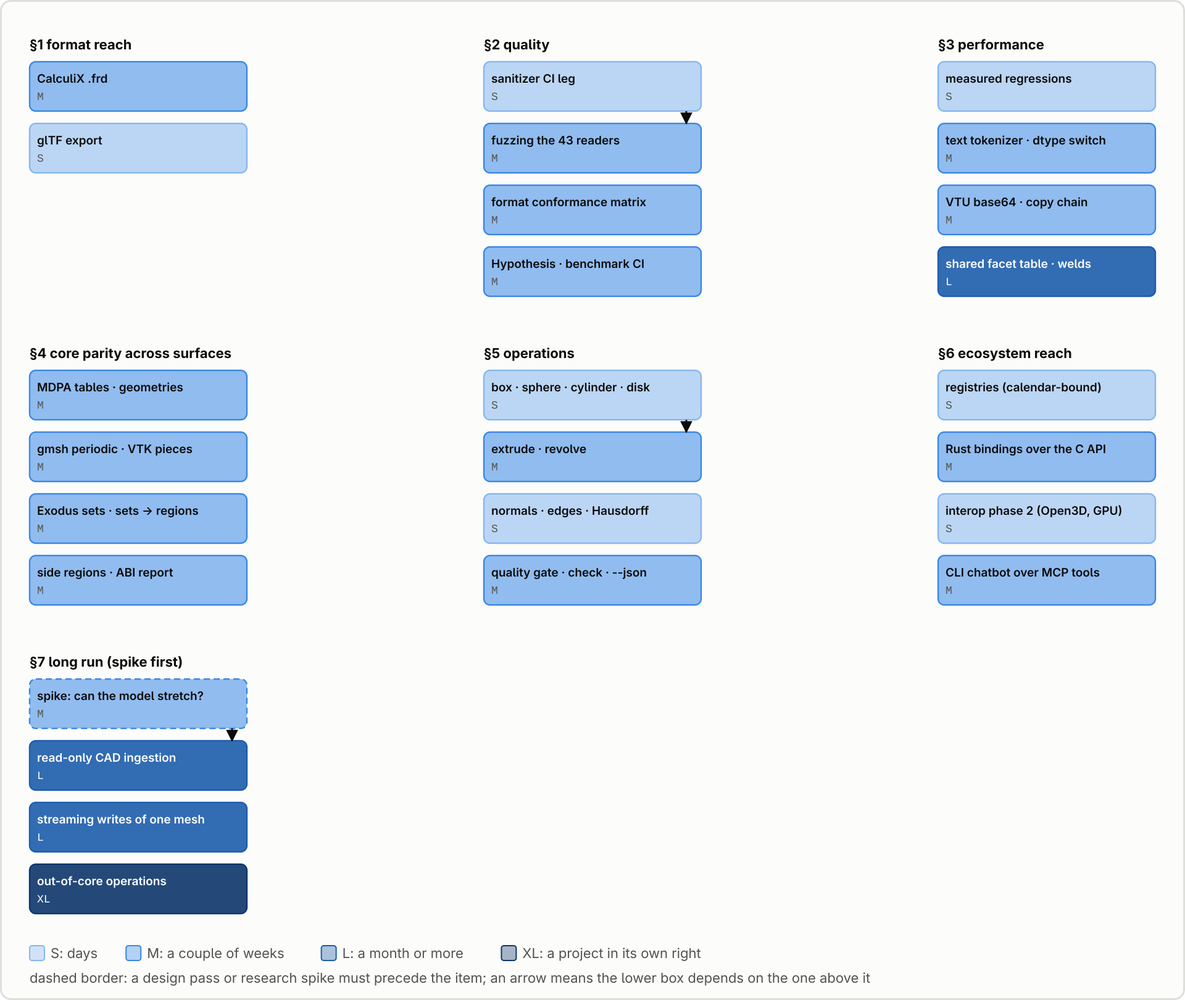
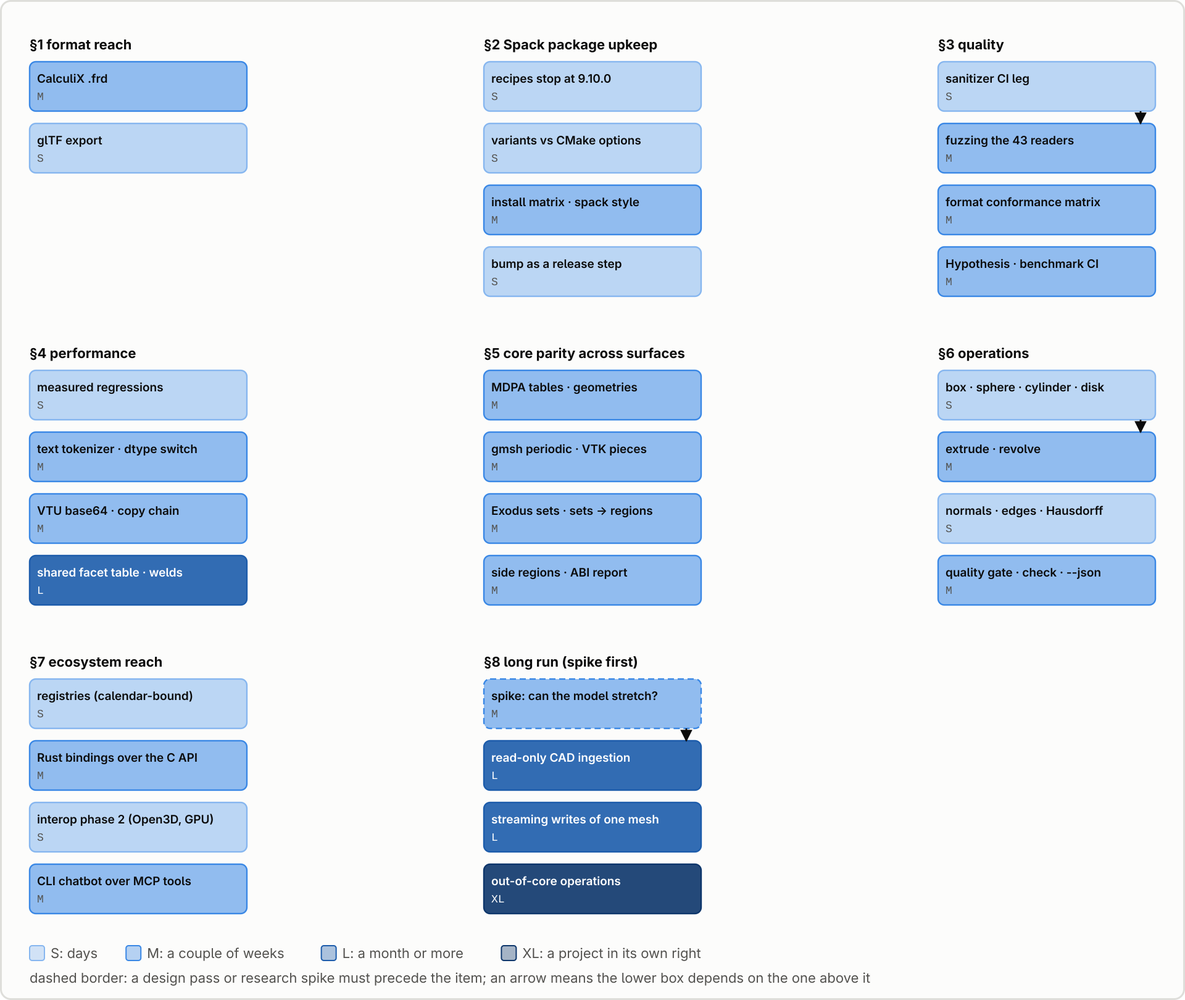
Refactor roadmap: Update sections on Spack package upkeep and quality of implementation
- Renamed "Quality of implementation" to "Spack package upkeep" and detailed the maintenance process for existing Spack packages.
- Added specific tasks for verifying versions, auditing recipes, and ensuring CI tests for Spack packages.
- Enhanced the "Quality of implementation" section with additional tasks related to sanitization, fuzzing, and format conformance.
- Updated subsequent sections to reflect the new numbering and adjusted references accordingly.

diff --git a/doc/diagrams/figures/flows.py b/doc/diagrams/figures/flows.py
@@ -946,7 +946,17 @@ def roadmap_map():
             [],
         ),
         (
-            "§2 quality",
+            "§2 Spack package upkeep",
+            [
+                ("recipes stop at 9.10.0", "S"),
+                ("variants vs CMake options", "S"),
+                ("install matrix · spack style", "M"),
+                ("bump as a release step", "S"),
+            ],
+            [],
+        ),
+        (
+            "§3 quality",
             [
                 ("sanitizer CI leg", "S"),
                 ("fuzzing the 43 readers", "M"),
@@ -956,7 +966,7 @@ def roadmap_map():
             [(0, 1)],
         ),
         (
-            "§3 performance",
+            "§4 performance",
             [
                 ("measured regressions", "S"),
                 ("text tokenizer · dtype switch", "M"),
@@ -966,7 +976,7 @@ def roadmap_map():
             [],
         ),
         (
-            "§4 core parity across surfaces",
+            "§5 core parity across surfaces",
             [
                 ("MDPA tables · geometries", "M"),
                 ("gmsh periodic · VTK pieces", "M"),
@@ -976,7 +986,7 @@ def roadmap_map():
             [],
         ),
         (
-            "§5 operations",
+            "§6 operations",
             [
                 ("box · sphere · cylinder · disk", "S"),
                 ("extrude · revolve", "M"),
@@ -986,7 +996,7 @@ def roadmap_map():
             [(0, 1)],
         ),
         (
-            "§6 ecosystem reach",
+            "§7 ecosystem reach",
             [
                 ("registries (calendar-bound)", "S"),
                 ("Rust bindings over the C API", "M"),
@@ -996,7 +1006,7 @@ def roadmap_map():
             [],
         ),
         (
-            "§7 long run (spike first)",
+            "§8 long run (spike first)",
             [
                 ("spike: can the model stretch?", "M"),
                 ("read-only CAD ingestion", "L"),

diff --git a/doc/roadmap.md b/doc/roadmap.md
@@ -338,23 +338,39 @@ Revisit any of them when a consumer asks with a file in hand — a real deck or 
 
 ---
 
-## 2. Quality of implementation
+## 2. Spack package upkeep
+
+*Admission: a package that already exists but lives in someone else's repository and has fallen behind the release. Not a feature, and ordered straight after format reach because it is how HPC users get meshio++ at all ([issue #3](https://github.com/loumalouomega/meshioplusplus/issues/3): "Interesting for HPC"; the maintainer's follow-up: done, but it has to be kept current with every release).*
+
+Both recipes are upstream in [`spack/spack-packages`](https://github.com/spack/spack-packages) — [`meshioplusplus`](https://github.com/spack/spack-packages/blob/develop/repos/spack_repo/builtin/packages/meshioplusplus/package.py) (a `CMakePackage`: C API, Fortran, installable C++ API, CLI) and [`py-meshioplusplus`](https://github.com/spack/spack-packages/blob/develop/repos/spack_repo/builtin/packages/py_meshioplusplus/package.py) (a `PythonPackage`), added in [PR #5624](https://github.com/spack/spack-packages/pull/5624). Nothing in this repository builds or tests them, so nothing notices when they drift.
+
+- **Verify first, then bump the versions.** Read on 2026-09-21, the newest tagged `version()` in both recipes is **9.10.0** (plus `master`) against **15.2.0** here, and the `meshioplusplus` recipe's `url` still points at the `v9.10.0` tarball. Probe: `spack versions meshioplusplus py-meshioplusplus` against `git tag`. Add a `version(..., sha256=...)` line per release worth keeping (`spack checksum` computes it); `spack install py-meshioplusplus@15.2.0` and `meshioplusplus@15.2.0` must then concretize and build. **S**
+- **Audit the recipes against six major versions of drift.** Every `when="@X:"` guard, the `depends_on` floors (`py-scikit-build-core@0.8:`, `py-pybind11@2.11:`, `python@3.8:`, `cmake@3.15:`) and the `conflicts("%gcc@:9")` must be re-checked against `pyproject.toml` and `CMakeLists.txt` at the new version, and the docstring's "~40 unstructured mesh formats" is now 52. The `+cxx_api` libraries install as `libmeshioplusplus_core_<backend>.so.<abi>` and `MESHIOPLUSPLUS_ABI_VERSION` is now 15, while the C library keeps `SOVERSION 0` ([ABI policy](./abi.md)) — confirm the recipe finds both, and that a `find_package(meshioplusplus X.Y.Z EXACT CONFIG)` consumer against a Spack-installed `+cxx_api` still resolves ([C++ API](./cpp_api.md)). **S**
+- **Variants that lag the CMake options.** The recipes expose `hdf5`, `netcdf`, `zlib`, `zstd`, `lz4`, `kahip`, `fortran`, `cli`, `parallel`, `mesh_backend`, `cxx_api` and `cxx_api_backends`. `CMakeLists.txt` also defines `MESHIOPLUSPLUS_WITH_CGNSLIB`, `MESHIOPLUSPLUS_WITH_GIDPOST`, `MESHIOPLUSPLUS_WITH_POLYSCOPE`, `MESHIOPLUSPLUS_WITH_EIGEN` and `MESHIOPLUSPLUS_WITH_JSON`. Verify which of them post-date 9.10.0 and which have a Spack package to depend on (`cgns` does); expose the ones an HPC build would choose, leave the rest at their defaults, and keep every variant named as the Conan option and vcpkg feature are ([C API](./c_api.md#package-managers-conan-vcpkg-spack)). **S–M**
+- **Test the matrix, not one install.** Build both recipes with `spack install --test=root` for the default variants, `+fortran`, `+cxx_api` (each `cxx_api_backends`), `parallel=openmp|tbb|kokkos` and `mesh_backend=kratos`, and run `spack style` and `spack audit` before opening the PR. None of this is in CI here today; a smoke job that installs from a `spack-packages` checkout on a schedule would catch the next drift without a person remembering to look. **S–M**
+- **Make the bump a release step.** [Installation → Spack](./installation.md#spack) and the C API page both say a new release "needs no action here" because a `version(...)` line is added upstream after each tag; the drift above is what that sentence produces when it is nobody's job. Add the upstream PR to the release checklist in `AGENTS.md` (after the tag: `spack checksum`, one `version()` line per recipe, `spack style`) and replace the sentence in both docs. Opening the PR from the release workflow needs a token on a fork and is a follow-up only if the manual step is skipped again. **S**
+- **Done when.** Both recipes list the current release, `spack install py-meshioplusplus@<current> +hdf5 +netcdf +zlib` and `spack install meshioplusplus@<current> +fortran +cxx_api` succeed on a clean Spack, the docs no longer claim the step is automatic, and issue #3 is closed.
+- **References.** [Spack packaging guide](https://spack.readthedocs.io/en/latest/packaging_guide_creation.html) † · [`spack checksum`](https://spack.readthedocs.io/en/latest/command_index.html#spack-checksum) † · [PR #5624, the original submission](https://github.com/spack/spack-packages/pull/5624) · [Installation → Spack](./installation.md#spack)
+
+---
+
+## 3. Quality of implementation
 
 *Admission: work that makes every other item safer to land. None of it is a feature, so none of it competes for the same attention — it can run in parallel with everything.*
 
 - **A sanitizer CI leg** — ASan and UBSan over the existing `cpp-tests` job. No workflow passes `-fsanitize` today, and a fuzzer that finds a crash without one reports a symptom rather than the out-of-range read behind it. The precondition for the next item. **S**
 - **Fuzzing the readers** (libFuzzer, then OSS-Fuzz if the project is accepted). 43 mostly hand-rolled parsers are reachable from a C ABI, a browser, a VS Code extension and an MCP server — untrusted input reaches them by design. One fuzz target per `registry_readers()` entry, seeded from `tests/python/meshes/`. The highest-value non-feature item in this document. **M**
-- **A format conformance matrix** — one canonical mesh written to and read back from every writable format, asserting per format what survives (points, each cell type, point/cell/field data and their dtypes, each region kind) against a declared expectation. `tests/python/test_region_roundtrip.py` already does this for regions over Gmsh/Abaqus/MED, and `tests/cpp/test_sequence.cpp`'s `WriteSupportsTimeAgreesWithReality` is the registry-iterating shape to generalise it to. The declared expectations become a lossiness column in the [format table](./formats.md), which today has only Read/Write/dependencies, with lossiness scattered across its notes and fifty-five per-format quirks sections. The canonical mesh should be a primitive constructor from [§5](#_5-operations). **M**
+- **A format conformance matrix** — one canonical mesh written to and read back from every writable format, asserting per format what survives (points, each cell type, point/cell/field data and their dtypes, each region kind) against a declared expectation. `tests/python/test_region_roundtrip.py` already does this for regions over Gmsh/Abaqus/MED, and `tests/cpp/test_sequence.cpp`'s `WriteSupportsTimeAgreesWithReality` is the registry-iterating shape to generalise it to. The declared expectations become a lossiness column in the [format table](./formats.md), which today has only Read/Write/dependencies, with lossiness scattered across its notes and fifty-five per-format quirks sections. The canonical mesh should be a primitive constructor from [§6](#_6-operations). **M**
 - **Property-based testing** (Hypothesis) over the invariants the docs already articulate: partition-of-unity, volume conservation, conformity, byte-identical determinism, map composition. **M**
-- **A benchmark harness that covers what ships, with a CI leg.** The suite exists (`benchmark/`, up to ~1M synthetic tets in Python, 257k in the C++ backend benchmark, which is off by default) but no CI job runs any of it, so a performance regression is found by a user. It is also narrow: `benchmark/bench.py` times 6 format labels of the 43 the core reads, and [benchmarks](./benchmarks.md) has no numbers for any operation or for the parallel backends — `src/cpp/benchmark/bench_backends.cpp` compares mesh backends only. Widen `bench.py` to every registry format; add a `bench_ops.cpp` (`extract_surface`, `smooth`, `refine`, `merge`, `clean`, `compute_sdf`, `decimate`, `partition`, `reorder`) over a size sweep and SEQ/OpenMP/TBB/Kokkos; add a 10M+ cell tier; run it on a schedule that records rather than gates. Every [§3](#_3-performance) item is gated on this showing its before/after, and it decides whether the scale items in [§7](#_7-long-run-spike-first) matter at all. **S–M**
+- **A benchmark harness that covers what ships, with a CI leg.** The suite exists (`benchmark/`, up to ~1M synthetic tets in Python, 257k in the C++ backend benchmark, which is off by default) but no CI job runs any of it, so a performance regression is found by a user. It is also narrow: `benchmark/bench.py` times 6 format labels of the 43 the core reads, and [benchmarks](./benchmarks.md) has no numbers for any operation or for the parallel backends — `src/cpp/benchmark/bench_backends.cpp` compares mesh backends only. Widen `bench.py` to every registry format; add a `bench_ops.cpp` (`extract_surface`, `smooth`, `refine`, `merge`, `clean`, `compute_sdf`, `decimate`, `partition`, `reorder`) over a size sweep and SEQ/OpenMP/TBB/Kokkos; add a 10M+ cell tier; run it on a schedule that records rather than gates. Every [§4](#_4-performance) item is gated on this showing its before/after, and it decides whether the scale items in [§8](#_8-long-run-spike-first) matter at all. **S–M**
 - **Test and install the ParaView plugin.** `tools/paraview-meshioplusplus-plugin.py` ships as a reader and writer, but nothing tests it, and the `data_files` entry that would install it is commented out in `pyproject.toml`, so [its page](./paraview_plugin.md) describes a plugin path nothing writes. A `pvpython` smoke step plus the install fix. **S**
 - **Finish the fallback narrowing.** The per-format shims route every decline through `core_declined` (`_fallback.py`), but two halves of the same defect remain. First, **44 broad `except Exception` handlers in 36 package-root operation files** (`_clean.py`, `_data_average.py`, `_curvature.py`, …) still wrap the C++ core and, unlike a format fallback, silently substitute a *different algorithm*; each operation needs its own ruling on which exceptions mean "unsupported" and which mean "bad input", with `_error.py`'s `(ValueError, TypeError)` re-raise as the model. Second, the C++ core has one `ReadError` for both "malformed file" and "construct I deliberately decline", and about a hundred `std::stoi`/`stoll`/`.at()` call sites in the format readers leak `ValueError`/`IndexError` instead (`tests/python/meshes/tecplot/quad_zone_space.tec` makes the C++ Tecplot reader throw `std::stoull`, and now logs a warning before the Python twin reads it); a `ReadError` subclass, or a per-entry-point wrapper in `_core.cpp` (not the global translator, which would remap the operations' `std::invalid_argument`), makes the "recognised decline" contract total. Running the suite once under `MESHIOPLUSPLUS_STRICT_CORE=1` sizes both. **M**
 
 ---
 
-## 3. Performance
+## 4. Performance
 
-*Admission: a measured or code-verified slowdown in a path a user hits, with the shape of the fix named. Nothing here is scheduled before the [§2](#_2-quality-of-implementation) harness can show its before/after.*
+*Admission: a measured or code-verified slowdown in a path a user hits, with the shape of the fix named. Nothing here is scheduled before the [§3](#_3-quality-of-implementation) harness can show its before/after.*
 
 Two findings frame the section. First, **the serial phases below are deliberate**: each is documented in the code as a determinism pin, not an oversight — output is byte-identical across parallel backends and thread counts, and the reference-file tests enforce it — so every fix must keep that guarantee and prove it with a SEQ-versus-OpenMP diff, not assert it. Second, **every parallel item is conditional on the backend**: a SEQ build (and the `stl` fallback without TBB) runs `parallel_for` sequentially, so each change must also show that SEQ does not get slower — a parallel sort is O(n log n) where the hash map it replaces is O(n).
 
@@ -392,7 +408,7 @@ Two findings frame the section. First, **the serial phases below are deliberate*
 
 - **The Python bindings never release the GIL.** Nothing in `bindings/python` uses `gil_scoped_release` or a `call_guard`, so a multi-gigabyte read or a 10M-cell operation blocks every other Python thread, and no caller can convert files in a thread pool. Release after the numpy→`Mesh` conversion and re-acquire before the `Mesh`→numpy one, once the `b64decode` table race above is fixed, auditing that no released region touches a Python object. **S–M**
 - **`import meshioplusplus` takes ~180–210 ms, ~160–190 ms of it the CLI.** The package `__init__` imports `_cli`, which imports every verb module, and `_common.py` imports `rich` for library use; every MCP process and CLI call pays it. Load `_cli` lazily through a module `__getattr__` and move `rich` into the CLI. The heavy optional dependencies (`h5py`, `netCDF4`, `torch`, `pxr`, `vtk`) are already imported inside functions. **S**
-- **A declined C++ read costs a full parse before the Python one starts.** `vtu_read.cpp` builds the whole XML DOM, base64 bodies included, before rejecting lzma, appended data or multiple pieces; `gmsh.cpp` rejects `$Periodic` only after `$Nodes` and `$Elements` are parsed; with an ambiguous extension one `.msh` can be parsed up to six times. A cheap pre-flight — attribute and section-header scans — before the expensive parse, with only early rejections falling back. Every decline is now logged at DEBUG (and raises under `MESHIOPLUSPLUS_STRICT_CORE=1`), which is what shows how often it happens; the durable fix is [§4](#_4-core-parity-across-surfaces)'s core parity. **S–M**
+- **A declined C++ read costs a full parse before the Python one starts.** `vtu_read.cpp` builds the whole XML DOM, base64 bodies included, before rejecting lzma, appended data or multiple pieces; `gmsh.cpp` rejects `$Periodic` only after `$Nodes` and `$Elements` are parsed; with an ambiguous extension one `.msh` can be parsed up to six times. A cheap pre-flight — attribute and section-header scans — before the expensive parse, with only early rejections falling back. Every decline is now logged at DEBUG (and raises under `MESHIOPLUSPLUS_STRICT_CORE=1`), which is what shows how often it happens; the durable fix is [§5](#_5-core-parity-across-surfaces)'s core parity. **S–M**
 - **The MCP server re-reads the input file on every tool call** — 65 call sites in `mcp/_tools.py` go through an uncached `_load()`, so an agent's info → clean → decimate → convert parses one file four times. A bounded cache keyed on (path, `mtime_ns`, size); anything weaker manufactures a stale-read bug. **S**
 - **pybind11 per-call overheads**, together: the `Mesh`→numpy conversion re-imports the `Mesh` class on every call, the contiguity check does a Python attribute lookup per array, operations clone connectivity they never change (`transform`), and polygon/polyhedron blocks cross the boundary one node id and one face at a time where the WASM binding already uses a CSR triple. **S–M**
 - **Flat-binding accessor copies**, together: R copies the points twice and shifts connectivity to 1-based with a scalar loop, and Julia's safe accessors `copy` the borrowed view; both are documented, and both are fixable behind the same accessor names. **S**
@@ -403,18 +419,18 @@ Two findings frame the section. First, **the serial phases below are deliberate*
 - **Explicit SIMD intrinsics or `-march` flags** — portability across wheels, WASM and the release binaries is worth more than the scalar kernels cost; revisit only if the harness shows a kernel dominating.
 - **Kokkos device execution** — every `parallel_for` body captures host pointers (`parallel.hpp`); the GPU route is the DLPack/CuPy handoff ([GPU handoff](./gpu.md)).
 - **A BVH in place of the uniform grid** — the tiebreak argument above.
-- **Tuning the pure-Python fallback readers** — the fix is making the C++ path accept the file ([§4](#_4-core-parity-across-surfaces)), not a faster fallback; `_decimate.py`'s heap-based twin is deleted once `decimate` accepts its inputs, not optimised.
+- **Tuning the pure-Python fallback readers** — the fix is making the C++ path accept the file ([§5](#_5-core-parity-across-surfaces)), not a faster fallback; `_decimate.py`'s heap-based twin is deleted once `decimate` accepts its inputs, not optimised.
 
 *Recommended posture:* the harness and the measured regressions first; then the small isolated wins — `b64decode`, the lazy CLI import, `optimize_volume` — then the shared facet table, the largest total win; the boundary items as their consumers ask.
 
 ---
 
-## 4. Core parity across surfaces
+## 5. Core parity across surfaces
 
 *Admission: something the Python layer can do that the C++ core cannot, or that the core can do and a binding cannot reach.* A construct that forces the Python fallback is not "slower from C" — it is **unreadable** from C, Fortran, Julia, R, WASM and the native CLI, none of which has a fallback. Ordered by this project's own consumers, Kratos first.
 
 - **MDPA beyond mesh-level blocks.** The C++ core reads and writes `Nodes`/`Elements`/`Conditions`/`SubModelPart`s, but `Begin Table`, `Begin Geometries`, `Begin Mesh <id>`, `Begin Constraints` and non-numeric `ModelPartData` throw — or, under a lenient read, are skipped and listed in `MdpaInfo`, which no flat binding exposes ([MDPA](./formats/mdpa.md#c-core)). **M**
-- **Gmsh `$Periodic` and format 4.0 in the C++ core.** `$Periodic`, both directions: a periodic 4.1 file is unreadable from every flat binding today ([Gmsh](./formats/gmsh.md)). The C++ reader also accepts only versions 2.2 and 4.1 (`gmsh.cpp`), so a 4.0 file, which the Python reader reads, is unreadable from them too. Pairs with periodic node matching in [§5](#_5-operations). **S–M**
+- **Gmsh `$Periodic` and format 4.0 in the C++ core.** `$Periodic`, both directions: a periodic 4.1 file is unreadable from every flat binding today ([Gmsh](./formats/gmsh.md)). The C++ reader also accepts only versions 2.2 and 4.1 (`gmsh.cpp`), so a 4.0 file, which the Python reader reads, is unreadable from them too. Pairs with periodic node matching in [§6](#_6-operations). **S–M**
 - **VTK-family constructs the C++ readers refuse**: multi-`<Piece>` `.vtu` (the Python reader merges pieces) and legacy `.vtk` structured points, structured grid and rectilinear grid ([VTU](./formats/vtu.md), [VTK](./formats/vtk.md)). **S–M**
 - **XDMF 2 and XPath references** — the C++ core implements XDMF 3 only, and `Reference="XML"` `DataItem`s not at all ([XDMF](./formats/xdmf.md)). **M**
 - **MED multi-mesh files and profiles**, which are Python-only and not reachable even under a lenient C++ read ([MED](./formats/med.md)). **M**
@@ -428,13 +444,13 @@ Two findings frame the section. First, **the serial phases below are deliberate*
 
 ---
 
-## 5. Operations
+## 6. Operations
 
 *Admission: a new operation, or a public face for machinery that already exists privately inside one.*
 
 **Generation.** Almost every operation transforms a mesh you already have. The exceptions all start from something else — `grid` from a lattice (`detail/grid_lattice.hpp`), `voxelize`/`compute_sdf` from a surface's bounding box, `remesh_volume` from a closed surface — and nothing builds a shape from parameters, sweeps one, or triangulates a domain.
 
-- **Primitive constructors** — `box`, `sphere`, `cylinder`, `disk`, in their own `operations/primitives.hpp` beside `grid`. Dependency-free, and it removes the fixture-file dependency from tests, docs, notebooks, the browser demo and the MCP server; it is also the canonical mesh the [§2](#_2-quality-of-implementation) conformance matrix needs. Highest leverage per line of code in this document. **S**
+- **Primitive constructors** — `box`, `sphere`, `cylinder`, `disk`, in their own `operations/primitives.hpp` beside `grid`. Dependency-free, and it removes the fixture-file dependency from tests, docs, notebooks, the browser demo and the MCP server; it is also the canonical mesh the [§3](#_3-quality-of-implementation) conformance matrix needs. Highest leverage per line of code in this document. **S**
 - **`extrude`** — 2-D → 3-D sweep (triangle → wedge, quad → hexahedron) with `nlayers` and per-layer offsets, carrying regions to side and cap regions. The most-requested generation primitive. **M**
 - **`revolve`** — `extrude`'s rotational sibling around an axis, sharing its layer machinery; degenerate cells on the axis are the only new work. **M**
 - **Delaunay / constrained 2-D meshing** — genuinely useful, but robust geometric predicates are where dependency-free stops paying. Better as an optional Triangle or Gmsh backend, off by default, following the KaHIP pattern. **L**
@@ -452,7 +468,7 @@ Two findings frame the section. First, **the serial phases below are deliberate*
 
 ---
 
-## 6. Ecosystem reach
+## 7. Ecosystem reach
 
 *Admission: getting what exists to the people who would use it.*
 
@@ -465,7 +481,7 @@ Two findings frame the section. First, **the serial phases below are deliberate*
 | Julia General | Not registered, so `Pkg.add("MeshioPlusPlus")` does not work yet ([Julia](./julia.md)). |
 | Blender Extensions Platform | Extension zips are built and attached to every release; only the listing remains ([Blender](./blender.md)). |
 | ConanCenter and the vcpkg registry | Recipes are self-hosted and CI-validated under `packages/`; neither is submitted ([C API](./c_api.md#package-managers-conan-vcpkg-spack)). |
-| ParaView | The plugin exists; installing it with the wheel is the [§2](#_2-quality-of-implementation) item. |
+| ParaView | The plugin exists; installing it with the wheel is the [§3](#_3-quality-of-implementation) item. |
 
 - **Rust bindings** over the C API — the next language by scientific adoption after Julia and R, and the ABI/`SOVERSION` work makes it cheap. **M**
 - **Interop phase 2** — the Open3D and DOLFINx bridges exist as named stubs that raise `NotImplementedError` ([interop](./interop.md)); the pinned-memory staging for CuPy is wired in C++ (v8.5.0) but not from Python ([GPU handoff](./gpu.md)). **S–M each**
@@ -477,11 +493,11 @@ Two findings frame the section. First, **the serial phases below are deliberate*
 
 ---
 
-## 7. Long run (spike first)
+## 8. Long run (spike first)
 
 *Admission: work whose shape is unknown until an investigation writes it down. Findings before code.*
 
-**Scale.** Memory-mapped reads ([mmap](./mmap.md), via `ReadOptions` and the C ABI but not Python's `read()`) roughly halve the peak footprint of a large read, and the XDMF series appender and Python's chunked `write_dataset` write a series or a dataset without holding it — but nothing writes one mesh larger than memory, and no operation streams. Run the [§2](#_2-quality-of-implementation) benchmark tier first; it decides whether either item below matters.
+**Scale.** Memory-mapped reads ([mmap](./mmap.md), via `ReadOptions` and the C ABI but not Python's `read()`) roughly halve the peak footprint of a large read, and the XDMF series appender and Python's chunked `write_dataset` write a series or a dataset without holding it — but nothing writes one mesh larger than memory, and no operation streams. Run the [§3](#_3-quality-of-implementation) benchmark tier first; it decides whether either item below matters.
 
 - **Streaming / chunked writes of one mesh**, the counterpart to selective and memory-mapped reads. **L**
 - **Out-of-core operations** for the ops that are already block-local. **XL**
@@ -504,7 +520,7 @@ Recorded so they are not re-proposed as gaps.
 
 - **MPI in the library** — none planned ([C++ API](./cpp_api.md)); `partition`'s ghost layers produce the halo an MPI assembly in the owning application needs.
 - **Solver-coupled physics-ML** — assembled solver residuals, adjoints and Sobolev training, co-simulation, active-learning *labeling*, adaptive remeshing driven by a surrogate, and MPI model-part gathering. Every one needs a live solver (an assembly routine, its tangent, its communicator) and meshio++ has no notion of a discrete system; they belong in the application that owns the solver, the division [Symbolic and physics](physicsnemo/symbolic_and_physics.md) describes.
-- **The Python-only layers stay Python** — `pmsh`, `zarr`, `cae` and `usd`, and the physics-ML surface (`tessellate`, grids, point budgets, proximity graphs, datasets, training) are export targets and tooling for a training pipeline, registered in Python rather than the shared C++ registry. A core kernel they call (the neighbour search in [§3](#_3-performance)) does not change that.
+- **The Python-only layers stay Python** — `pmsh`, `zarr`, `cae` and `usd`, and the physics-ML surface (`tessellate`, grids, point budgets, proximity graphs, datasets, training) are export targets and tooling for a training pipeline, registered in Python rather than the shared C++ registry. A core kernel they call (the neighbour search in [§4](#_4-performance)) does not change that.
 - **Polyscope in the release CLI binaries** — excluded deliberately, so `view`/`screenshot` there report the build flag rather than opening a window ([viewer](./viewer.md)).
 - **General meshing algorithms as operations** — hex and hex-dominant meshing, boolean/CSG, boundary-layer inflation, quadrangulation and geodesic distance are each a library in their own right; the answer is an optional backend (the KaHIP pattern), not a native implementation.
 - **KaHIP in the WASM build** — no Emscripten port, and a graph partitioner would bloat every consumer's bundle; `"auto"` resolving to the SFC method is the answer, and `"kahip"` throwing by name is the contract.
@@ -518,10 +534,11 @@ Recorded so they are not re-proposed as gaps.
 
 Open work only; what shipped is in `CHANGELOG.md`.
 
-1. **Format reach ([§1](#_1-format-reach))** — `.pvd`/`.pvtu` first; `compute_normals` ([§5](#_5-operations)) before glTF.
-2. **Sanitizer leg, then fuzzing ([§2](#_2-quality-of-implementation))** — a parallel track from day one; it does not compete for the same attention as features.
-3. **Performance ([§3](#_3-performance))** — the harness and the measured regressions first, then the isolated wins (`b64decode`, the lazy CLI import, `optimize_volume`), then the shared facet table.
-4. **Primitive constructors ([§5](#_5-operations))** — a few days, and a prerequisite of the conformance matrix, every demo surface and `extrude`/`revolve`.
-5. **Core parity ([§4](#_4-core-parity-across-surfaces))** — MDPA first, then Side-region survival and sets → regions, then the rest by consumer demand.
-6. **Registration ([§6](#_6-ecosystem-reach))** — calendar-bound, so start the submissions early and let them run alongside everything else.
-7. **Long-run spikes ([§7](#_7-long-run-spike-first))** — the benchmark tier decides the scale items; the NURBS spike is scheduled independently of the rest.
+1. **Format reach ([§1](#_1-format-reach))** — `.pvd`/`.pvtu` first; `compute_normals` ([§6](#_6-operations)) before glTF.
+2. **Spack package upkeep ([§2](#_2-spack-package-upkeep))** — a small, mechanical catch-up (recipes, variants, one release-checklist line) that unblocks HPC users on the current release; then a checklist step, so it stays current.
+3. **Sanitizer leg, then fuzzing ([§3](#_3-quality-of-implementation))** — a parallel track from day one; it does not compete for the same attention as features.
+4. **Performance ([§4](#_4-performance))** — the harness and the measured regressions first, then the isolated wins (`b64decode`, the lazy CLI import, `optimize_volume`), then the shared facet table.
+5. **Primitive constructors ([§6](#_6-operations))** — a few days, and a prerequisite of the conformance matrix, every demo surface and `extrude`/`revolve`.
+6. **Core parity ([§5](#_5-core-parity-across-surfaces))** — MDPA first, then Side-region survival and sets → regions, then the rest by consumer demand.
+7. **Registration ([§7](#_7-ecosystem-reach))** — calendar-bound, so start the submissions early and let them run alongside everything else.
+8. **Long-run spikes ([§8](#_8-long-run-spike-first))** — the benchmark tier decides the scale items; the NURBS spike is scheduled independently of the rest.
